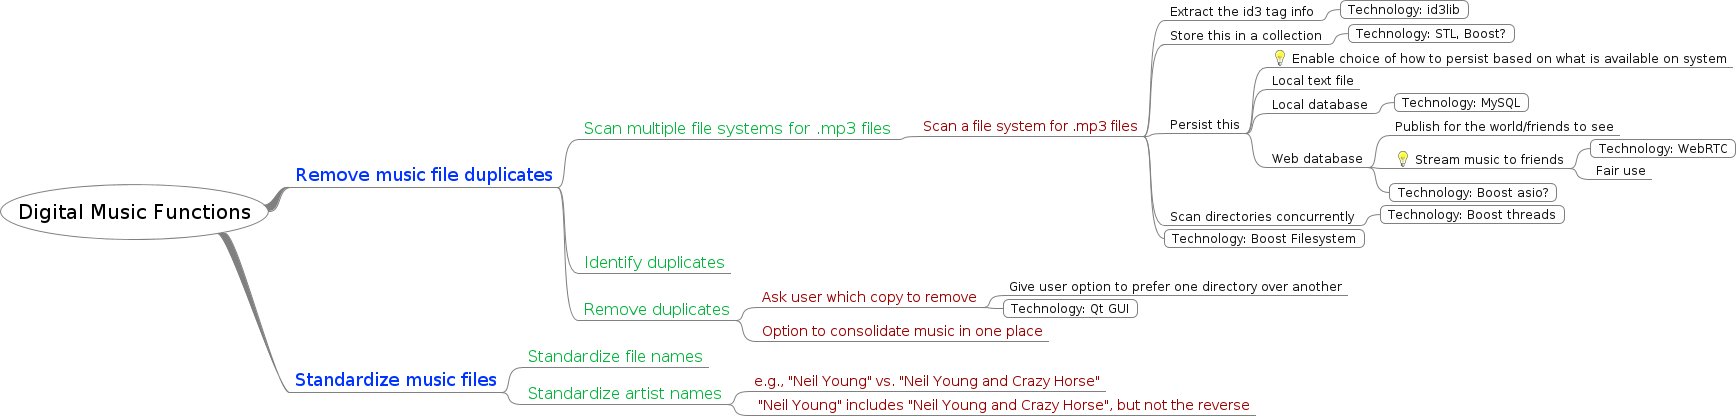
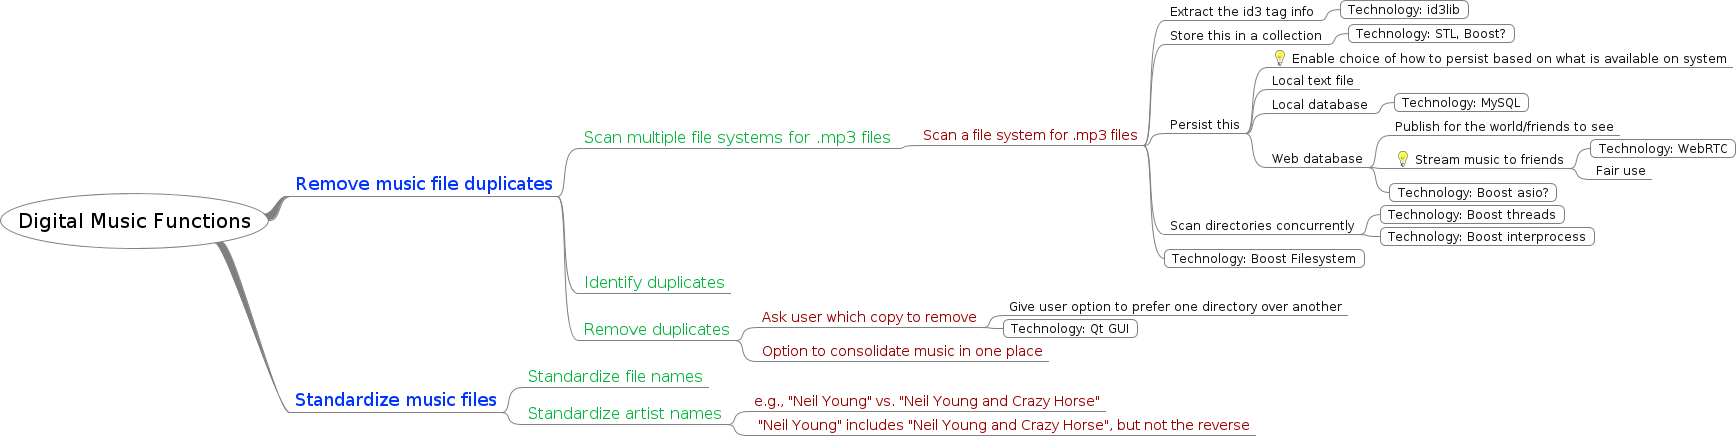
Updated diagram

diff --git a/Digital Music Functions.html b/Digital Music Functions.html
@@ -1,5 +1,5 @@
 <?xml version="1.0" encoding="UTF-8"?><!DOCTYPE html PUBLIC "-//W3C//DTD XHTML 1.1//EN" "http://www.w3.org/TR/xhtml11/DTD/xhtml11.dtd">
-<html xmlns="http://www.w3.org/1999/xhtml"><meta content="text/html; charset=UTF-8" http-equiv="Content-Type" /><!--This file has been created with freemind2html.xsl--><head><title>Digital Music Functions</title><link rel="stylesheet" href="Digital%20Music%20Functions.html_files/freemind2html.css" type="text/css" /><meta content="FreeMind-XSL Stylesheet (see: http://freemind-xsl.dev.slash-me.net/ for details)" name="generator" /><script type="text/javascript" src="Digital%20Music%20Functions.html_files/freemind2html.js">  
+<html xmlns="http://www.w3.org/1999/xhtml"><meta content="text/html; charset=UTF-8" http-equiv="Content-Type" /><!--This file has been created with freemind2html.xsl--><head><title>Digital Music Functions</title><link rel="stylesheet" href="Digital%20Music%20Functions.html_files//freemind2html.css" type="text/css" /><meta content="FreeMind-XSL Stylesheet (see: http://freemind-xsl.dev.slash-me.net/ for details)" name="generator" /><script type="text/javascript" src="Digital%20Music%20Functions.html_files//freemind2html.js">  
 	</script><script type="text/javascript"><!--
           
                function toggle(id)
@@ -11,19 +11,19 @@
           
 					
                       div_el.style.display='none';
-                      img_el.src = 'Digital%20Music%20Functions.html_files/show.png';
+                      img_el.src = 'Digital%20Music%20Functions.html_files//show.png';
           
                    }
                    else
                    {
           
                       div_el.style.display='block';
-                      img_el.src = 'Digital%20Music%20Functions.html_files/hide.png';
+                      img_el.src = 'Digital%20Music%20Functions.html_files//hide.png';
           
                    };
                };
           
-          --></script></head><body><h1>Digital Music Functions</h1><div style="width:96%;  padding:2%;  margin-bottom:10px;  border: 0px;  text-align:center;  vertical-align:center;"><img src="Digital%20Music%20Functions.html_files/image.png" style="margin-bottom:10px; &#9;border: 0px; &#9;text-align:center; &#9;vertical-align:center;" alt="Imagemap" usemap="#fm_imagemap" /></div><map id="fm_imagemap" name="fm_imagemap"><area shape="rect" href="#FMID_1909699675FM" alt="Digital Music Functions" title="Digital Music Functions" coords="0,184,269,240" /><area shape="rect" href="#FMID_483187002FM" alt="Remove music file duplicates" title="Remove music file duplicates" coords="289,162,558,188" /><area shape="rect" href="#FMID_360782203FM" alt="Scan multiple file systems for .mp3 file ..." title="Scan multiple file systems for .mp3 file ..." coords="578,117,897,140" /><area shape="rect" href="#FMID_365557339FM" alt="Scan a file system for .mp3 files" title="Scan a file system for .mp3 files" coords="917,116,1144,137" /><area shape="rect" href="#FMID_565034533FM" alt="Extract the id3 tag info" title="Extract the id3 tag info" coords="1164,2,1320,21" /><area shape="rect" href="#FMID_980389101FM" alt="Technology: id3lib" title="Technology: id3lib" coords="1340,0,1469,19" /><area shape="rect" href="#FMID_1111082582FM" alt="Store this in a collection" title="Store this in a collection" coords="1164,26,1328,45" /><area shape="rect" href="#FMID_949643642FM" alt="Technology: STL, Boost?" title="Technology: STL, Boost?" coords="1348,24,1515,43" /><area shape="rect" href="#FMID_622970782FM" alt="Persist this" title="Persist this" coords="1164,115,1246,134" /><area shape="rect" href="#FMID_1178579407FM" alt="Enable choice of how to persist based on ..." title="Enable choice of how to persist based on ..." coords="1266,48,1733,68" /><area shape="rect" href="#FMID_146914587FM" alt="Local text file" title="Local text file" coords="1266,71,1360,90" /><area shape="rect" href="#FMID_745834668FM" alt="Local database" title="Local database" coords="1266,95,1374,114" /><area shape="rect" href="#FMID_1562607486FM" alt="Technology: MySQL" title="Technology: MySQL" coords="1394,93,1529,112" /><area shape="rect" href="#FMID_1862585139FM" alt="Web database" title="Web database" coords="1266,149,1369,168" /><area shape="rect" href="#FMID_1952458447FM" alt="Publish for the world/friends to see" title="Publish for the world/friends to see" coords="1389,117,1620,136" /><area shape="rect" href="#FMID_918586010FM" alt="Stream music to friends" title="Stream music to friends" coords="1389,149,1570,169" /><area shape="rect" href="#FMID_570023929FM" alt="Technology: WebRTC" title="Technology: WebRTC" coords="1590,139,1736,158" /><area shape="rect" href="#FMID_432256117FM" alt="Fair use" title="Fair use" coords="1590,161,1652,180" /><area shape="rect" href="#FMID_1951462140FM" alt="Technology: Boost asio?" title="Technology: Boost asio?" coords="1389,183,1557,202" /><area shape="rect" href="#FMID_305434909FM" alt="Scan directories concurrently" title="Scan directories concurrently" coords="1164,207,1360,226" /><area shape="rect" href="#FMID_248407421FM" alt="Technology: Boost threads" title="Technology: Boost threads" coords="1380,205,1565,224" /><area shape="rect" href="#FMID_415624116FM" alt="Technology: Boost Filesystem" title="Technology: Boost Filesystem" coords="1164,229,1365,248" /><area shape="rect" href="#FMID_1320776442FM" alt="Identify duplicates" title="Identify duplicates" coords="578,251,731,274" /><area shape="rect" href="#FMID_1195968476FM" alt="Remove duplicates" title="Remove duplicates" coords="578,298,736,321" /><area shape="rect" href="#FMID_570554348FM" alt="Ask user which copy to remove" title="Ask user which copy to remove" coords="756,287,983,308" /><area shape="rect" href="#FMID_1898340066FM" alt="Give user option to prefer one directory ..." title="Give user option to prefer one directory ..." coords="1003,277,1348,296" /><area shape="rect" href="#FMID_1059608009FM" alt="Technology: Qt GUI" title="Technology: Qt GUI" coords="1003,299,1138,318" /><area shape="rect" href="#FMID_539992141FM" alt="Option to consolidate music in one place" title="Option to consolidate music in one place" coords="756,321,1049,342" /><area shape="rect" href="#FMID_513963103FM" alt="Standardize music files" title="Standardize music files" coords="289,367,502,393" /><area shape="rect" href="#FMID_1828984806FM" alt="Standardize file names" title="Standardize file names" coords="522,345,709,368" /><area shape="rect" href="#FMID_1899451883FM" alt="Standardize artist names" title="Standardize artist names" coords="522,382,728,405" /><area shape="rect" href="#FMID_603714290FM" alt="e.g., &quot;Neil Young&quot; vs. &quot;Neil Young and C ..." title="e.g., &quot;Neil Young&quot; vs. &quot;Neil Young and C ..." coords="748,371,1106,392" /><area shape="rect" href="#FMID_1035119904FM" alt=" &quot;Neil Young&quot; includes &quot;Neil Young and C ..." title=" &quot;Neil Young&quot; includes &quot;Neil Young and C ..." coords="748,395,1256,416" /></map>
+          --></script></head><body><h1>Digital Music Functions</h1><div style="width:96%;  padding:2%;  margin-bottom:10px;  border: 0px;  text-align:center;  vertical-align:center;"><img src="Digital%20Music%20Functions.html_files//image.png" style="margin-bottom:10px; &#9;border: 0px; &#9;text-align:center; &#9;vertical-align:center;" alt="Imagemap" usemap="#fm_imagemap" /></div><map id="fm_imagemap" name="fm_imagemap"><area shape="rect" href="#FMID_1909699675FM" alt="Digital Music Functions" title="Digital Music Functions" coords="0,193,269,249" /><area shape="rect" href="#FMID_483187002FM" alt="Remove music file duplicates" title="Remove music file duplicates" coords="289,171,558,197" /><area shape="rect" href="#FMID_360782203FM" alt="Scan multiple file systems for .mp3 file ..." title="Scan multiple file systems for .mp3 file ..." coords="578,126,897,149" /><area shape="rect" href="#FMID_365557339FM" alt="Scan a file system for .mp3 files" title="Scan a file system for .mp3 files" coords="917,125,1144,146" /><area shape="rect" href="#FMID_565034533FM" alt="Extract the id3 tag info" title="Extract the id3 tag info" coords="1164,2,1320,21" /><area shape="rect" href="#FMID_980389101FM" alt="Technology: id3lib" title="Technology: id3lib" coords="1340,0,1469,19" /><area shape="rect" href="#FMID_1111082582FM" alt="Store this in a collection" title="Store this in a collection" coords="1164,26,1328,45" /><area shape="rect" href="#FMID_949643642FM" alt="Technology: STL, Boost?" title="Technology: STL, Boost?" coords="1348,24,1515,43" /><area shape="rect" href="#FMID_622970782FM" alt="Persist this" title="Persist this" coords="1164,115,1246,134" /><area shape="rect" href="#FMID_1178579407FM" alt="Enable choice of how to persist based on ..." title="Enable choice of how to persist based on ..." coords="1266,48,1733,68" /><area shape="rect" href="#FMID_146914587FM" alt="Local text file" title="Local text file" coords="1266,71,1360,90" /><area shape="rect" href="#FMID_745834668FM" alt="Local database" title="Local database" coords="1266,95,1374,114" /><area shape="rect" href="#FMID_1562607486FM" alt="Technology: MySQL" title="Technology: MySQL" coords="1394,93,1529,112" /><area shape="rect" href="#FMID_1862585139FM" alt="Web database" title="Web database" coords="1266,149,1369,168" /><area shape="rect" href="#FMID_1952458447FM" alt="Publish for the world/friends to see" title="Publish for the world/friends to see" coords="1389,117,1620,136" /><area shape="rect" href="#FMID_918586010FM" alt="Stream music to friends" title="Stream music to friends" coords="1389,149,1570,169" /><area shape="rect" href="#FMID_570023929FM" alt="Technology: WebRTC" title="Technology: WebRTC" coords="1590,139,1736,158" /><area shape="rect" href="#FMID_432256117FM" alt="Fair use" title="Fair use" coords="1590,161,1652,180" /><area shape="rect" href="#FMID_1951462140FM" alt="Technology: Boost asio?" title="Technology: Boost asio?" coords="1389,183,1557,202" /><area shape="rect" href="#FMID_305434909FM" alt="Scan directories concurrently" title="Scan directories concurrently" coords="1164,216,1360,235" /><area shape="rect" href="#FMID_248407421FM" alt="Technology: Boost threads" title="Technology: Boost threads" coords="1380,205,1565,224" /><area shape="rect" href="#FMID_24723383FM" alt="Technology: Boost interprocess" title="Technology: Boost interprocess" coords="1380,227,1595,246" /><area shape="rect" href="#FMID_415624116FM" alt="Technology: Boost Filesystem" title="Technology: Boost Filesystem" coords="1164,249,1365,268" /><area shape="rect" href="#FMID_1320776442FM" alt="Identify duplicates" title="Identify duplicates" coords="578,271,731,294" /><area shape="rect" href="#FMID_1195968476FM" alt="Remove duplicates" title="Remove duplicates" coords="578,318,736,341" /><area shape="rect" href="#FMID_570554348FM" alt="Ask user which copy to remove" title="Ask user which copy to remove" coords="756,307,983,328" /><area shape="rect" href="#FMID_1898340066FM" alt="Give user option to prefer one directory ..." title="Give user option to prefer one directory ..." coords="1003,297,1348,316" /><area shape="rect" href="#FMID_1059608009FM" alt="Technology: Qt GUI" title="Technology: Qt GUI" coords="1003,319,1138,338" /><area shape="rect" href="#FMID_539992141FM" alt="Option to consolidate music in one place" title="Option to consolidate music in one place" coords="756,341,1049,362" /><area shape="rect" href="#FMID_513963103FM" alt="Standardize music files" title="Standardize music files" coords="289,387,502,413" /><area shape="rect" href="#FMID_1828984806FM" alt="Standardize file names" title="Standardize file names" coords="522,365,709,388" /><area shape="rect" href="#FMID_1899451883FM" alt="Standardize artist names" title="Standardize artist names" coords="522,402,728,425" /><area shape="rect" href="#FMID_603714290FM" alt="e.g., &quot;Neil Young&quot; vs. &quot;Neil Young and C ..." title="e.g., &quot;Neil Young&quot; vs. &quot;Neil Young and C ..." coords="748,391,1106,412" /><area shape="rect" href="#FMID_1035119904FM" alt=" &quot;Neil Young&quot; includes &quot;Neil Young and C ..." title=" &quot;Neil Young&quot; includes &quot;Neil Young and C ..." coords="748,415,1256,436" /></map>
 
-<div class="node"><img src="Digital%20Music%20Functions.html_files/hide.png" class="hideshow" alt="hide" onClick="toggle(&quot;N10007&quot;)" id="imgN10007" /><a id="FMID_1909699675FM" /><div class="nodecontent" style="color:#000000;font-size:167%;">Digital Music Functions</div><div class="content" id="N10007"><div class="node"><img src="Digital%20Music%20Functions.html_files/hide.png" class="hideshow" alt="hide" onClick="toggle(&quot;N10015&quot;)" id="imgN10015" /><a id="FMID_483187002FM" /><div class="nodecontent" style="color:#0033ff;font-size:150%;">Remove music file duplicates</div><div class="content" id="N10015"><div class="node"><img src="Digital%20Music%20Functions.html_files/hide.png" class="hideshow" alt="hide" onClick="toggle(&quot;N10025&quot;)" id="imgN10025" /><a id="FMID_360782203FM" /><div class="nodecontent" style="color:#00b439;font-size:133%;">Scan multiple file systems for .mp3 files</div><div class="content" id="N10025"><div class="node"><img src="Digital%20Music%20Functions.html_files/hide.png" class="hideshow" alt="hide" onClick="toggle(&quot;N10034&quot;)" id="imgN10034" /><a id="FMID_365557339FM" /><div class="nodecontent" style="color:#990000;font-size:117%;">Scan a file system for .mp3 files</div><div class="content" id="N10034"><div class="node"><img src="Digital%20Music%20Functions.html_files/hide.png" class="hideshow" alt="hide" onClick="toggle(&quot;N1003F&quot;)" id="imgN1003F" /><a id="FMID_565034533FM" /><div class="nodecontent" style="color:#111111;">Extract the id3 tag info</div><div class="content" id="N1003F"><div class="node"><img src="Digital%20Music%20Functions.html_files/leaf.png" class="hideshow" alt="leaf" /><a id="FMID_980389101FM" /><div class="nodecontent" style="color:#111111;">Technology: id3lib</div></div></div></div><div class="node"><img src="Digital%20Music%20Functions.html_files/hide.png" class="hideshow" alt="hide" onClick="toggle(&quot;N1004F&quot;)" id="imgN1004F" /><a id="FMID_1111082582FM" /><div class="nodecontent" style="color:#111111;">Store this in a collection</div><div class="content" id="N1004F"><div class="node"><img src="Digital%20Music%20Functions.html_files/leaf.png" class="hideshow" alt="leaf" /><a id="FMID_949643642FM" /><div class="nodecontent" style="color:#111111;">Technology: STL, Boost?</div></div></div></div><div class="node"><img src="Digital%20Music%20Functions.html_files/hide.png" class="hideshow" alt="hide" onClick="toggle(&quot;N1005F&quot;)" id="imgN1005F" /><a id="FMID_622970782FM" /><div class="nodecontent" style="color:#111111;">Persist this</div><div class="content" id="N1005F"><div class="node"><img src="Digital%20Music%20Functions.html_files/leaf.png" class="hideshow" alt="leaf" /><img src="Digital%20Music%20Functions.html_files/icons/idea.png" alt="idea" /> <a id="FMID_1178579407FM" /><div class="nodecontent" style="color:#111111;">Enable choice of how to persist based on what is available on system</div></div><div class="node"><img src="Digital%20Music%20Functions.html_files/leaf.png" class="hideshow" alt="leaf" /><a id="FMID_146914587FM" /><div class="nodecontent" style="color:#111111;">Local text file</div></div><div class="node"><img src="Digital%20Music%20Functions.html_files/hide.png" class="hideshow" alt="hide" onClick="toggle(&quot;N10079&quot;)" id="imgN10079" /><a id="FMID_745834668FM" /><div class="nodecontent" style="color:#111111;">Local database</div><div class="content" id="N10079"><div class="node"><img src="Digital%20Music%20Functions.html_files/leaf.png" class="hideshow" alt="leaf" /><a id="FMID_1562607486FM" /><div class="nodecontent" style="color:#111111;">Technology: MySQL</div></div></div></div><div class="node"><img src="Digital%20Music%20Functions.html_files/hide.png" class="hideshow" alt="hide" onClick="toggle(&quot;N10089&quot;)" id="imgN10089" /><a id="FMID_1862585139FM" /><div class="nodecontent" style="color:#111111;">Web database</div><div class="content" id="N10089"><div class="node"><img src="Digital%20Music%20Functions.html_files/leaf.png" class="hideshow" alt="leaf" /><a id="FMID_1952458447FM" /><div class="nodecontent" style="color:#111111;">Publish for the world/friends to see</div></div><div class="node"><img src="Digital%20Music%20Functions.html_files/hide.png" class="hideshow" alt="hide" onClick="toggle(&quot;N10097&quot;)" id="imgN10097" /><img src="Digital%20Music%20Functions.html_files/icons/idea.png" alt="idea" /> <a id="FMID_918586010FM" /><div class="nodecontent" style="color:#111111;">Stream music to friends</div><div class="content" id="N10097"><div class="node"><img src="Digital%20Music%20Functions.html_files/leaf.png" class="hideshow" alt="leaf" /><a id="FMID_570023929FM" /><div class="nodecontent" style="color:#111111;">Technology: WebRTC</div></div><div class="node"><img src="Digital%20Music%20Functions.html_files/leaf.png" class="hideshow" alt="leaf" /><a id="FMID_432256117FM" /><div class="nodecontent" style="color:#111111;">Fair use</div></div></div></div><div class="node"><img src="Digital%20Music%20Functions.html_files/leaf.png" class="hideshow" alt="leaf" /><a id="FMID_1951462140FM" /><div class="nodecontent" style="color:#111111;">Technology: Boost asio?</div></div></div></div></div></div><div class="node"><img src="Digital%20Music%20Functions.html_files/hide.png" class="hideshow" alt="hide" onClick="toggle(&quot;N100BB&quot;)" id="imgN100BB" /><a id="FMID_305434909FM" /><div class="nodecontent" style="color:#111111;">Scan directories concurrently</div><div class="content" id="N100BB"><div class="node"><img src="Digital%20Music%20Functions.html_files/leaf.png" class="hideshow" alt="leaf" /><a id="FMID_248407421FM" /><div class="nodecontent" style="color:#111111;">Technology: Boost threads</div></div></div></div><div class="node"><img src="Digital%20Music%20Functions.html_files/leaf.png" class="hideshow" alt="leaf" /><a id="FMID_415624116FM" /><div class="nodecontent" style="color:#111111;">Technology: Boost Filesystem</div></div></div></div></div></div><div class="node"><img src="Digital%20Music%20Functions.html_files/leaf.png" class="hideshow" alt="leaf" /><a id="FMID_1320776442FM" /><div class="nodecontent" style="color:#00b439;font-size:133%;">Identify duplicates</div></div><div class="node"><img src="Digital%20Music%20Functions.html_files/hide.png" class="hideshow" alt="hide" onClick="toggle(&quot;N100E5&quot;)" id="imgN100E5" /><a id="FMID_1195968476FM" /><div class="nodecontent" style="color:#00b439;font-size:133%;">Remove duplicates</div><div class="content" id="N100E5"><div class="node"><img src="Digital%20Music%20Functions.html_files/hide.png" class="hideshow" alt="hide" onClick="toggle(&quot;N100F4&quot;)" id="imgN100F4" /><a id="FMID_570554348FM" /><div class="nodecontent" style="color:#990000;font-size:117%;">Ask user which copy to remove</div><div class="content" id="N100F4"><div class="node"><img src="Digital%20Music%20Functions.html_files/leaf.png" class="hideshow" alt="leaf" /><a id="FMID_1898340066FM" /><div class="nodecontent" style="color:#111111;">Give user option to prefer one directory over another</div></div><div class="node"><img src="Digital%20Music%20Functions.html_files/leaf.png" class="hideshow" alt="leaf" /><a id="FMID_1059608009FM" /><div class="nodecontent" style="color:#111111;">Technology: Qt GUI</div></div></div></div><div class="node"><img src="Digital%20Music%20Functions.html_files/leaf.png" class="hideshow" alt="leaf" /><a id="FMID_539992141FM" /><div class="nodecontent" style="color:#990000;font-size:117%;">Option to consolidate music in one place</div></div></div></div></div></div><div class="node"><img src="Digital%20Music%20Functions.html_files/hide.png" class="hideshow" alt="hide" onClick="toggle(&quot;N1011D&quot;)" id="imgN1011D" /><a id="FMID_513963103FM" /><div class="nodecontent" style="color:#0033ff;font-size:150%;">Standardize music files</div><div class="content" id="N1011D"><div class="node"><img src="Digital%20Music%20Functions.html_files/leaf.png" class="hideshow" alt="leaf" /><a id="FMID_1828984806FM" /><div class="nodecontent" style="color:#00b439;font-size:133%;">Standardize file names</div></div><div class="node"><img src="Digital%20Music%20Functions.html_files/hide.png" class="hideshow" alt="hide" onClick="toggle(&quot;N1013D&quot;)" id="imgN1013D" /><a id="FMID_1899451883FM" /><div class="nodecontent" style="color:#00b439;font-size:133%;">Standardize artist names</div><div class="content" id="N1013D"><div class="node"><img src="Digital%20Music%20Functions.html_files/leaf.png" class="hideshow" alt="leaf" /><a id="FMID_603714290FM" /><div class="nodecontent" style="color:#990000;font-size:117%;">e.g., "Neil Young" vs. "Neil Young and Crazy Horse"</div></div><div class="node"><img src="Digital%20Music%20Functions.html_files/leaf.png" class="hideshow" alt="leaf" /><a id="FMID_1035119904FM" /><div class="nodecontent" style="color:#990000;font-size:117%;"> "Neil Young" includes "Neil Young and Crazy Horse", but not the reverse</div></div></div></div></div></div></div></div>
+<div class="node"><img src="Digital%20Music%20Functions.html_files//hide.png" class="hideshow" alt="hide" onClick="toggle(&quot;N10007&quot;)" id="imgN10007" /><a id="FMID_1909699675FM" /><div class="nodecontent" style="color:#000000;font-size:167%;">Digital Music Functions</div><div class="content" id="N10007"><div class="node"><img src="Digital%20Music%20Functions.html_files//hide.png" class="hideshow" alt="hide" onClick="toggle(&quot;N10015&quot;)" id="imgN10015" /><a id="FMID_483187002FM" /><div class="nodecontent" style="color:#0033ff;font-size:150%;">Remove music file duplicates</div><div class="content" id="N10015"><div class="node"><img src="Digital%20Music%20Functions.html_files//hide.png" class="hideshow" alt="hide" onClick="toggle(&quot;N10025&quot;)" id="imgN10025" /><a id="FMID_360782203FM" /><div class="nodecontent" style="color:#00b439;font-size:133%;">Scan multiple file systems for .mp3 files</div><div class="content" id="N10025"><div class="node"><img src="Digital%20Music%20Functions.html_files//hide.png" class="hideshow" alt="hide" onClick="toggle(&quot;N10034&quot;)" id="imgN10034" /><a id="FMID_365557339FM" /><div class="nodecontent" style="color:#990000;font-size:117%;">Scan a file system for .mp3 files</div><div class="content" id="N10034"><div class="node"><img src="Digital%20Music%20Functions.html_files//hide.png" class="hideshow" alt="hide" onClick="toggle(&quot;N1003F&quot;)" id="imgN1003F" /><a id="FMID_565034533FM" /><div class="nodecontent" style="color:#111111;">Extract the id3 tag info</div><div class="content" id="N1003F"><div class="node"><img src="Digital%20Music%20Functions.html_files//leaf.png" class="hideshow" alt="leaf" /><a id="FMID_980389101FM" /><div class="nodecontent" style="color:#111111;">Technology: id3lib</div></div></div></div><div class="node"><img src="Digital%20Music%20Functions.html_files//hide.png" class="hideshow" alt="hide" onClick="toggle(&quot;N1004F&quot;)" id="imgN1004F" /><a id="FMID_1111082582FM" /><div class="nodecontent" style="color:#111111;">Store this in a collection</div><div class="content" id="N1004F"><div class="node"><img src="Digital%20Music%20Functions.html_files//leaf.png" class="hideshow" alt="leaf" /><a id="FMID_949643642FM" /><div class="nodecontent" style="color:#111111;">Technology: STL, Boost?</div></div></div></div><div class="node"><img src="Digital%20Music%20Functions.html_files//hide.png" class="hideshow" alt="hide" onClick="toggle(&quot;N1005F&quot;)" id="imgN1005F" /><a id="FMID_622970782FM" /><div class="nodecontent" style="color:#111111;">Persist this</div><div class="content" id="N1005F"><div class="node"><img src="Digital%20Music%20Functions.html_files//leaf.png" class="hideshow" alt="leaf" /><img src="Digital%20Music%20Functions.html_files//icons/idea.png" alt="idea" /> <a id="FMID_1178579407FM" /><div class="nodecontent" style="color:#111111;">Enable choice of how to persist based on what is available on system</div></div><div class="node"><img src="Digital%20Music%20Functions.html_files//leaf.png" class="hideshow" alt="leaf" /><a id="FMID_146914587FM" /><div class="nodecontent" style="color:#111111;">Local text file</div></div><div class="node"><img src="Digital%20Music%20Functions.html_files//hide.png" class="hideshow" alt="hide" onClick="toggle(&quot;N10079&quot;)" id="imgN10079" /><a id="FMID_745834668FM" /><div class="nodecontent" style="color:#111111;">Local database</div><div class="content" id="N10079"><div class="node"><img src="Digital%20Music%20Functions.html_files//leaf.png" class="hideshow" alt="leaf" /><a id="FMID_1562607486FM" /><div class="nodecontent" style="color:#111111;">Technology: MySQL</div></div></div></div><div class="node"><img src="Digital%20Music%20Functions.html_files//hide.png" class="hideshow" alt="hide" onClick="toggle(&quot;N10089&quot;)" id="imgN10089" /><a id="FMID_1862585139FM" /><div class="nodecontent" style="color:#111111;">Web database</div><div class="content" id="N10089"><div class="node"><img src="Digital%20Music%20Functions.html_files//leaf.png" class="hideshow" alt="leaf" /><a id="FMID_1952458447FM" /><div class="nodecontent" style="color:#111111;">Publish for the world/friends to see</div></div><div class="node"><img src="Digital%20Music%20Functions.html_files//hide.png" class="hideshow" alt="hide" onClick="toggle(&quot;N10097&quot;)" id="imgN10097" /><img src="Digital%20Music%20Functions.html_files//icons/idea.png" alt="idea" /> <a id="FMID_918586010FM" /><div class="nodecontent" style="color:#111111;">Stream music to friends</div><div class="content" id="N10097"><div class="node"><img src="Digital%20Music%20Functions.html_files//leaf.png" class="hideshow" alt="leaf" /><a id="FMID_570023929FM" /><div class="nodecontent" style="color:#111111;">Technology: WebRTC</div></div><div class="node"><img src="Digital%20Music%20Functions.html_files//leaf.png" class="hideshow" alt="leaf" /><a id="FMID_432256117FM" /><div class="nodecontent" style="color:#111111;">Fair use</div></div></div></div><div class="node"><img src="Digital%20Music%20Functions.html_files//leaf.png" class="hideshow" alt="leaf" /><a id="FMID_1951462140FM" /><div class="nodecontent" style="color:#111111;">Technology: Boost asio?</div></div></div></div></div></div><div class="node"><img src="Digital%20Music%20Functions.html_files//hide.png" class="hideshow" alt="hide" onClick="toggle(&quot;N100BB&quot;)" id="imgN100BB" /><a id="FMID_305434909FM" /><div class="nodecontent" style="color:#111111;">Scan directories concurrently</div><div class="content" id="N100BB"><div class="node"><img src="Digital%20Music%20Functions.html_files//leaf.png" class="hideshow" alt="leaf" /><a id="FMID_248407421FM" /><div class="nodecontent" style="color:#111111;">Technology: Boost threads</div></div><div class="node"><img src="Digital%20Music%20Functions.html_files//leaf.png" class="hideshow" alt="leaf" /><a id="FMID_24723383FM" /><div class="nodecontent" style="color:#111111;">Technology: Boost interprocess</div></div></div></div><div class="node"><img src="Digital%20Music%20Functions.html_files//leaf.png" class="hideshow" alt="leaf" /><a id="FMID_415624116FM" /><div class="nodecontent" style="color:#111111;">Technology: Boost Filesystem</div></div></div></div></div></div><div class="node"><img src="Digital%20Music%20Functions.html_files//leaf.png" class="hideshow" alt="leaf" /><a id="FMID_1320776442FM" /><div class="nodecontent" style="color:#00b439;font-size:133%;">Identify duplicates</div></div><div class="node"><img src="Digital%20Music%20Functions.html_files//hide.png" class="hideshow" alt="hide" onClick="toggle(&quot;N100ED&quot;)" id="imgN100ED" /><a id="FMID_1195968476FM" /><div class="nodecontent" style="color:#00b439;font-size:133%;">Remove duplicates</div><div class="content" id="N100ED"><div class="node"><img src="Digital%20Music%20Functions.html_files//hide.png" class="hideshow" alt="hide" onClick="toggle(&quot;N100FC&quot;)" id="imgN100FC" /><a id="FMID_570554348FM" /><div class="nodecontent" style="color:#990000;font-size:117%;">Ask user which copy to remove</div><div class="content" id="N100FC"><div class="node"><img src="Digital%20Music%20Functions.html_files//leaf.png" class="hideshow" alt="leaf" /><a id="FMID_1898340066FM" /><div class="nodecontent" style="color:#111111;">Give user option to prefer one directory over another</div></div><div class="node"><img src="Digital%20Music%20Functions.html_files//leaf.png" class="hideshow" alt="leaf" /><a id="FMID_1059608009FM" /><div class="nodecontent" style="color:#111111;">Technology: Qt GUI</div></div></div></div><div class="node"><img src="Digital%20Music%20Functions.html_files//leaf.png" class="hideshow" alt="leaf" /><a id="FMID_539992141FM" /><div class="nodecontent" style="color:#990000;font-size:117%;">Option to consolidate music in one place</div></div></div></div></div></div><div class="node"><img src="Digital%20Music%20Functions.html_files//hide.png" class="hideshow" alt="hide" onClick="toggle(&quot;N10125&quot;)" id="imgN10125" /><a id="FMID_513963103FM" /><div class="nodecontent" style="color:#0033ff;font-size:150%;">Standardize music files</div><div class="content" id="N10125"><div class="node"><img src="Digital%20Music%20Functions.html_files//leaf.png" class="hideshow" alt="leaf" /><a id="FMID_1828984806FM" /><div class="nodecontent" style="color:#00b439;font-size:133%;">Standardize file names</div></div><div class="node"><img src="Digital%20Music%20Functions.html_files//hide.png" class="hideshow" alt="hide" onClick="toggle(&quot;N10145&quot;)" id="imgN10145" /><a id="FMID_1899451883FM" /><div class="nodecontent" style="color:#00b439;font-size:133%;">Standardize artist names</div><div class="content" id="N10145"><div class="node"><img src="Digital%20Music%20Functions.html_files//leaf.png" class="hideshow" alt="leaf" /><a id="FMID_603714290FM" /><div class="nodecontent" style="color:#990000;font-size:117%;">e.g., "Neil Young" vs. "Neil Young and Crazy Horse"</div></div><div class="node"><img src="Digital%20Music%20Functions.html_files//leaf.png" class="hideshow" alt="leaf" /><a id="FMID_1035119904FM" /><div class="nodecontent" style="color:#990000;font-size:117%;"> "Neil Young" includes "Neil Young and Crazy Horse", but not the reverse</div></div></div></div></div></div></div></div>
 </body></html>

diff --git a/Digital Music Functions.mm b/Digital Music Functions.mm
@@ -1,4 +1,4 @@
-<map version="0.9.0">
+<map version="1.0.1">
 <!-- To view this file, download free mind mapping software FreeMind from http://freemind.sourceforge.net -->
 <node COLOR="#000000" CREATED="1403721937217" ID="ID_1909699675" MODIFIED="1403725439306" TEXT="Digital Music Functions">
 <font NAME="SansSerif" SIZE="20"/>
@@ -37,6 +37,7 @@
 </node>
 <node COLOR="#111111" CREATED="1403724874186" ID="ID_305434909" MODIFIED="1403725439289" TEXT="Scan directories concurrently">
 <node COLOR="#111111" CREATED="1403724886321" ID="ID_248407421" MODIFIED="1403725439289" STYLE="bubble" TEXT="Technology: Boost threads"/>
+<node COLOR="#111111" CREATED="1403732708082" ID="ID_24723383" MODIFIED="1403732726011" STYLE="bubble" TEXT="Technology: Boost interprocess"/>
 </node>
 <node COLOR="#111111" CREATED="1403724793730" ID="ID_415624116" MODIFIED="1403725439289" STYLE="bubble" TEXT="Technology: Boost Filesystem"/>
 </node>
